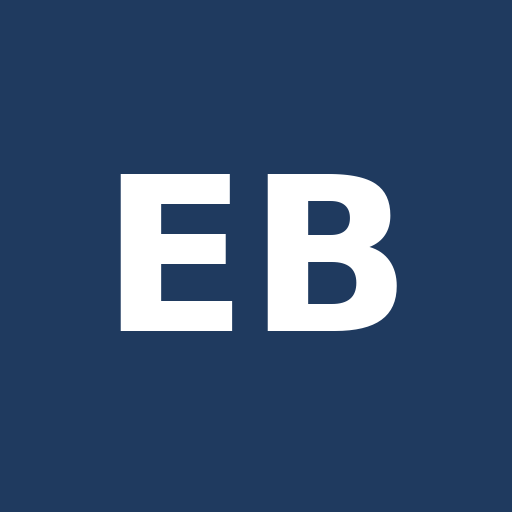
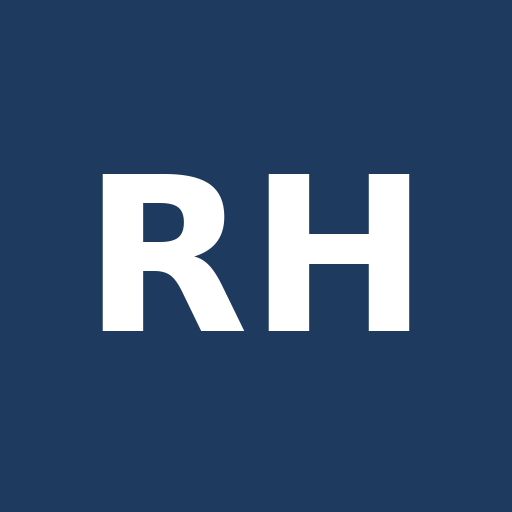
Right Hand: rename, Text+Email buttons

diff --git a/sp-r5xrl3socb/index.html b/sp-r5xrl3socb/index.html
@@ -1,22 +1,27 @@
 <!doctype html><html lang="en"><head><meta charset="utf-8">
 <meta name="viewport" content="width=device-width,initial-scale=1,viewport-fit=cover">
-<meta name="robots" content="noindex,nofollow"><title>Exec Branch</title>
+<meta name="robots" content="noindex,nofollow"><title>The Right Hand</title>
 <meta name="apple-mobile-web-app-capable" content="yes"><meta name="mobile-web-app-capable" content="yes">
-<meta name="apple-mobile-web-app-title" content="Exec Branch"><meta name="apple-mobile-web-app-status-bar-style" content="default">
+<meta name="apple-mobile-web-app-title" content="Right Hand"><meta name="apple-mobile-web-app-status-bar-style" content="default">
 <meta name="theme-color" content="#1f3a5f"><link rel="apple-touch-icon" href="apple-touch-icon.png"><link rel="icon" href="icon-192.png"><link rel="manifest" href="manifest.webmanifest">
 <style>
 body{margin:0;font-family:-apple-system,system-ui,sans-serif;background:#fff;color:#1b2a3d;padding:env(safe-area-inset-top) 16px 40px}
-header{text-align:center;padding:22px 0 8px}h1{font-family:Georgia,serif;font-weight:normal;color:#1f3a5f;margin:0;font-size:28px}
+header{text-align:center;padding:22px 0 8px}h1{font-family:Georgia,serif;font-weight:normal;color:#1f3a5f;margin:0;font-size:30px}
+.sub{color:#55657a;font-size:15px;margin-top:4px;letter-spacing:.3px}
 .top{background:#eef2f7;border-radius:12px;padding:12px 14px;font-size:15px;margin:10px 0 6px}
 h2{font-family:Georgia,serif;font-weight:normal;color:#1f3a5f;font-size:20px;border-bottom:1px solid #d5dde8;padding-bottom:6px;margin:26px 0 10px}
-.note{font-size:14px;color:#55657a;margin:-4px 0 10px}.grid{display:grid;gap:10px}
-.btn{display:block;background:#1f3a5f;color:#fff;text-decoration:none;border-radius:12px;padding:17px 16px;font-size:17px;font-weight:600;min-height:24px}
-.btn:active{background:#2c5282}textarea{width:100%;box-sizing:border-box;min-height:140px;font-size:17px;border:1px solid #b9c5d4;border-radius:12px;padding:12px;font-family:inherit}
-button{width:100%;margin-top:10px;border:0;background:#1f3a5f;color:#fff;font-size:17px;font-weight:600;border-radius:12px;padding:17px}
+.note{font-size:14px;color:#55657a;margin:-4px 0 10px}.grid{display:grid;gap:14px}
+.lbl{font-weight:600;font-size:16px;margin-bottom:6px}.pair{display:grid;grid-template-columns:1fr 1fr;gap:10px}
+.btn{display:block;text-align:center;background:#1f3a5f;color:#fff;text-decoration:none;border-radius:12px;padding:15px 8px;font-size:17px;font-weight:600;border:2px solid #1f3a5f}
+.btn.alt{background:#fff;color:#1f3a5f}.btn:active{opacity:.75}
+textarea{width:100%;box-sizing:border-box;min-height:140px;font-size:17px;border:1px solid #b9c5d4;border-radius:12px;padding:12px;font-family:inherit}
+button.btn{width:100%;font-family:inherit}
 footer{text-align:center;color:#8a98ab;font-size:13px;margin-top:32px;font-family:Georgia,serif;font-style:italic}
-</style></head><body><header><h1>Exec Branch</h1></header>
-<p class="top">Taps open an email to the assistant; hit Send and it gets to work. Replies come back by email.</p>
-<section><h2>Appointments</h2><div class="grid"><a class="btn" href="mailto:bing@mail.grokbot.com?subject=%5BExec%5D%20Schedule%20with%20Bishopric&body=Who%20to%20schedule%20with%20%28TR%20/%20youth%20interview%20/%20Bishop%29%3A%0AName%3A%0AWhat%20for%3A%0APreferred%20day/time%3A%0AAnything%20else%3A%0A">Schedule with Bishopric</a><a class="btn" href="mailto:bing@mail.grokbot.com?subject=%5BExec%5D%20Reschedule%20/%20cancel&body=Name%3A%0ACurrent%20appointment%20%28day/time%29%3A%0AReschedule%20to%20or%20cancel%3A%0ANotes%3A%0A">Reschedule / cancel</a><a class="btn" href="mailto:bing@mail.grokbot.com?subject=%5BExec%5D%20Send%20reminders&body=Which%20appointments%20%28day%29%3A%0AAnything%20to%20add%20to%20the%20reminder%3A%0A">Send reminders</a><a class="btn" href="mailto:bing@mail.grokbot.com?subject=%5BExec%5D%20What%27s%20on%20this%20Sunday%3F&body=Please%20send%20me%20this%20Sunday%27s%20appointments%20and%20schedule.%0A">What's on this Sunday?</a><a class="btn" href="mailto:bing@mail.grokbot.com?subject=%5BExec%5D%20What%27s%20on%20this%20Tuesday%3F&body=Please%20send%20me%20this%20Tuesday%27s%20appointments%20and%20schedule.%0A">What's on this Tuesday?</a></div></section><section><h2>Program & conducting</h2><div class="grid"><a class="btn" href="mailto:bing@mail.grokbot.com?subject=%5BExec%5D%20Update%20sacrament%20program&body=Date%3A%0AWhat%20to%20change%20%28speakers%2C%20prayers%2C%20hymns%2C%20other%29%3A%0ADetails%3A%0A">Update sacrament program</a><a class="btn" href="mailto:bing@mail.grokbot.com?subject=%5BExec%5D%20Get%20latest%20conducting%20sheet&body=Date%3A%0APlease%20send%20me%20the%20latest%20conducting%20sheet.%0A">Get latest conducting sheet</a><a class="btn" href="mailto:bing@mail.grokbot.com?subject=%5BExec%5D%20Add%20announcement&body=Announcement%20text%3A%0AWhich%20Sunday%28s%29%3A%0AProgram%2C%20conducting%20sheet%2C%20or%20both%3A%0A">Add announcement</a></div></section><section><h2>Agendas</h2><p class="note">Bishopric &amp; Ward Council: 2nd &amp; 4th Sundays · Youth Council: 3rd Sunday</p><div class="grid"><a class="btn" href="mailto:bing@mail.grokbot.com?subject=%5BExec%5D%20Ward%20Council%20agenda&body=Date%3A%0AItems%20to%20add%20/%20change%3A%0ASend%20me%20the%20current%20draft%3F%20%28yes/no%29%3A%0A">Ward Council agenda</a><a class="btn" href="mailto:bing@mail.grokbot.com?subject=%5BExec%5D%20Youth%20Council%20agenda&body=Date%3A%0AItems%20to%20add%20/%20change%3A%0ASend%20me%20the%20current%20draft%3F%20%28yes/no%29%3A%0A">Youth Council agenda</a><a class="btn" href="mailto:bing@mail.grokbot.com?subject=%5BExec%5D%20Bishopric%20agenda&body=Date%3A%0AItems%20to%20add%20/%20change%3A%0ASend%20me%20the%20current%20draft%3F%20%28yes/no%29%3A%0A">Bishopric agenda</a></div></section><section><h2>Callings &amp; records</h2><div class="grid"><a class="btn" href="mailto:bing@mail.grokbot.com?subject=%5BExec%5D%20Sustaining%20/%20release&body=Sustain%20or%20release%3A%0AName%3A%0ACalling%3A%0AWhich%20Sunday%3A%0A">Sustaining / release</a><a class="btn" href="mailto:bing@mail.grokbot.com?subject=%5BExec%5D%20Set%20apart&body=Name%3A%0ACalling%3A%0AWho%20will%20set%20apart%20/%20when%3A%0A">Set apart</a><a class="btn" href="mailto:bing@mail.grokbot.com?subject=%5BExec%5D%20Record%20update&body=Name%3A%0AWhat%20changed%20%28move%20in/out%2C%20address%2C%20other%29%3A%0ADetails%3A%0A">Record update</a></div></section><section><h2>Missionaries</h2><div class="grid"><a class="btn" href="mailto:bing@mail.grokbot.com?subject=%5BExec%5D%20Missionary%20update%20/%20email&body=Missionary%3A%0AUpdate%20or%20message%3A%0ASend%20to%20whom%3A%0A">Missionary update / email</a></div></section><section><h2>Texts</h2><p class="note">You'll get a draft back to approve before anything is sent.</p><div class="grid"><a class="btn" href="mailto:bing@mail.grokbot.com?subject=%5BExec%5D%20Text%20a%20ward%20member&body=Name%3A%0AMessage%3A%0ASend%20now%20or%20at%20a%20time%3A%0A">Text a ward member</a></div></section>
+</style></head><body><header><h1>The Right Hand</h1><div class="sub">Assistant Ward Executive Secretary</div></header>
+<p class="top">Tap Text or Email, hit Send, and the assistant gets to work. Replies come back the same way.</p>
+<section><h2>Appointments</h2><div class="grid"><div class="act"><div class="lbl">Schedule with Bishopric</div><div class="pair"><a class="btn" href="sms:+18019921414&body=%5BExec%5D%20Schedule%20with%20Bishopric%3A%20Who%20to%20schedule%20with%20%28TR%20/%20youth%20interview%20/%20Bishop%29%3A%0AName%3A%0AWhat%20for%3A%0APreferred%20day/time%3A%0AAnything%20else%3A%0A">Text</a><a class="btn alt" href="mailto:bing@mail.grokbot.com?subject=%5BExec%5D%20Schedule%20with%20Bishopric&body=Who%20to%20schedule%20with%20%28TR%20/%20youth%20interview%20/%20Bishop%29%3A%0AName%3A%0AWhat%20for%3A%0APreferred%20day/time%3A%0AAnything%20else%3A%0A">Email</a></div></div><div class="act"><div class="lbl">Reschedule / cancel</div><div class="pair"><a class="btn" href="sms:+18019921414&body=%5BExec%5D%20Reschedule%20/%20cancel%3A%20Name%3A%0ACurrent%20appointment%20%28day/time%29%3A%0AReschedule%20to%20or%20cancel%3A%0ANotes%3A%0A">Text</a><a class="btn alt" href="mailto:bing@mail.grokbot.com?subject=%5BExec%5D%20Reschedule%20/%20cancel&body=Name%3A%0ACurrent%20appointment%20%28day/time%29%3A%0AReschedule%20to%20or%20cancel%3A%0ANotes%3A%0A">Email</a></div></div><div class="act"><div class="lbl">Send reminders</div><div class="pair"><a class="btn" href="sms:+18019921414&body=%5BExec%5D%20Send%20reminders%3A%20Which%20appointments%20%28day%29%3A%0AAnything%20to%20add%20to%20the%20reminder%3A%0A">Text</a><a class="btn alt" href="mailto:bing@mail.grokbot.com?subject=%5BExec%5D%20Send%20reminders&body=Which%20appointments%20%28day%29%3A%0AAnything%20to%20add%20to%20the%20reminder%3A%0A">Email</a></div></div><div class="act"><div class="lbl">What's on this Sunday?</div><div class="pair"><a class="btn" href="sms:+18019921414&body=%5BExec%5D%20What%27s%20on%20this%20Sunday%3F%3A%20Please%20send%20me%20this%20Sunday%27s%20appointments%20and%20schedule.%0A">Text</a><a class="btn alt" href="mailto:bing@mail.grokbot.com?subject=%5BExec%5D%20What%27s%20on%20this%20Sunday%3F&body=Please%20send%20me%20this%20Sunday%27s%20appointments%20and%20schedule.%0A">Email</a></div></div><div class="act"><div class="lbl">What's on this Tuesday?</div><div class="pair"><a class="btn" href="sms:+18019921414&body=%5BExec%5D%20What%27s%20on%20this%20Tuesday%3F%3A%20Please%20send%20me%20this%20Tuesday%27s%20appointments%20and%20schedule.%0A">Text</a><a class="btn alt" href="mailto:bing@mail.grokbot.com?subject=%5BExec%5D%20What%27s%20on%20this%20Tuesday%3F&body=Please%20send%20me%20this%20Tuesday%27s%20appointments%20and%20schedule.%0A">Email</a></div></div></div></section><section><h2>Program & conducting</h2><div class="grid"><div class="act"><div class="lbl">Update sacrament program</div><div class="pair"><a class="btn" href="sms:+18019921414&body=%5BExec%5D%20Update%20sacrament%20program%3A%20Date%3A%0AWhat%20to%20change%20%28speakers%2C%20prayers%2C%20hymns%2C%20other%29%3A%0ADetails%3A%0A">Text</a><a class="btn alt" href="mailto:bing@mail.grokbot.com?subject=%5BExec%5D%20Update%20sacrament%20program&body=Date%3A%0AWhat%20to%20change%20%28speakers%2C%20prayers%2C%20hymns%2C%20other%29%3A%0ADetails%3A%0A">Email</a></div></div><div class="act"><div class="lbl">Get latest conducting sheet</div><div class="pair"><a class="btn" href="sms:+18019921414&body=%5BExec%5D%20Get%20latest%20conducting%20sheet%3A%20Date%3A%0APlease%20send%20me%20the%20latest%20conducting%20sheet.%0A">Text</a><a class="btn alt" href="mailto:bing@mail.grokbot.com?subject=%5BExec%5D%20Get%20latest%20conducting%20sheet&body=Date%3A%0APlease%20send%20me%20the%20latest%20conducting%20sheet.%0A">Email</a></div></div><div class="act"><div class="lbl">Add announcement</div><div class="pair"><a class="btn" href="sms:+18019921414&body=%5BExec%5D%20Add%20announcement%3A%20Announcement%20text%3A%0AWhich%20Sunday%28s%29%3A%0AProgram%2C%20conducting%20sheet%2C%20or%20both%3A%0A">Text</a><a class="btn alt" href="mailto:bing@mail.grokbot.com?subject=%5BExec%5D%20Add%20announcement&body=Announcement%20text%3A%0AWhich%20Sunday%28s%29%3A%0AProgram%2C%20conducting%20sheet%2C%20or%20both%3A%0A">Email</a></div></div></div></section><section><h2>Agendas</h2><p class="note">Bishopric &amp; Ward Council: 2nd &amp; 4th Sundays · Youth Council: 3rd Sunday</p><div class="grid"><div class="act"><div class="lbl">Ward Council agenda</div><div class="pair"><a class="btn" href="sms:+18019921414&body=%5BExec%5D%20Ward%20Council%20agenda%3A%20Date%3A%0AItems%20to%20add%20/%20change%3A%0ASend%20me%20the%20current%20draft%3F%20%28yes/no%29%3A%0A">Text</a><a class="btn alt" href="mailto:bing@mail.grokbot.com?subject=%5BExec%5D%20Ward%20Council%20agenda&body=Date%3A%0AItems%20to%20add%20/%20change%3A%0ASend%20me%20the%20current%20draft%3F%20%28yes/no%29%3A%0A">Email</a></div></div><div class="act"><div class="lbl">Youth Council agenda</div><div class="pair"><a class="btn" href="sms:+18019921414&body=%5BExec%5D%20Youth%20Council%20agenda%3A%20Date%3A%0AItems%20to%20add%20/%20change%3A%0ASend%20me%20the%20current%20draft%3F%20%28yes/no%29%3A%0A">Text</a><a class="btn alt" href="mailto:bing@mail.grokbot.com?subject=%5BExec%5D%20Youth%20Council%20agenda&body=Date%3A%0AItems%20to%20add%20/%20change%3A%0ASend%20me%20the%20current%20draft%3F%20%28yes/no%29%3A%0A">Email</a></div></div><div class="act"><div class="lbl">Bishopric agenda</div><div class="pair"><a class="btn" href="sms:+18019921414&body=%5BExec%5D%20Bishopric%20agenda%3A%20Date%3A%0AItems%20to%20add%20/%20change%3A%0ASend%20me%20the%20current%20draft%3F%20%28yes/no%29%3A%0A">Text</a><a class="btn alt" href="mailto:bing@mail.grokbot.com?subject=%5BExec%5D%20Bishopric%20agenda&body=Date%3A%0AItems%20to%20add%20/%20change%3A%0ASend%20me%20the%20current%20draft%3F%20%28yes/no%29%3A%0A">Email</a></div></div></div></section><section><h2>Callings &amp; records</h2><div class="grid"><div class="act"><div class="lbl">Sustaining / release</div><div class="pair"><a class="btn" href="sms:+18019921414&body=%5BExec%5D%20Sustaining%20/%20release%3A%20Sustain%20or%20release%3A%0AName%3A%0ACalling%3A%0AWhich%20Sunday%3A%0A">Text</a><a class="btn alt" href="mailto:bing@mail.grokbot.com?subject=%5BExec%5D%20Sustaining%20/%20release&body=Sustain%20or%20release%3A%0AName%3A%0ACalling%3A%0AWhich%20Sunday%3A%0A">Email</a></div></div><div class="act"><div class="lbl">Set apart</div><div class="pair"><a class="btn" href="sms:+18019921414&body=%5BExec%5D%20Set%20apart%3A%20Name%3A%0ACalling%3A%0AWho%20will%20set%20apart%20/%20when%3A%0A">Text</a><a class="btn alt" href="mailto:bing@mail.grokbot.com?subject=%5BExec%5D%20Set%20apart&body=Name%3A%0ACalling%3A%0AWho%20will%20set%20apart%20/%20when%3A%0A">Email</a></div></div><div class="act"><div class="lbl">Record update</div><div class="pair"><a class="btn" href="sms:+18019921414&body=%5BExec%5D%20Record%20update%3A%20Name%3A%0AWhat%20changed%20%28move%20in/out%2C%20address%2C%20other%29%3A%0ADetails%3A%0A">Text</a><a class="btn alt" href="mailto:bing@mail.grokbot.com?subject=%5BExec%5D%20Record%20update&body=Name%3A%0AWhat%20changed%20%28move%20in/out%2C%20address%2C%20other%29%3A%0ADetails%3A%0A">Email</a></div></div></div></section><section><h2>Missionaries</h2><div class="grid"><div class="act"><div class="lbl">Missionary update / email</div><div class="pair"><a class="btn" href="sms:+18019921414&body=%5BExec%5D%20Missionary%20update%20/%20email%3A%20Missionary%3A%0AUpdate%20or%20message%3A%0ASend%20to%20whom%3A%0A">Text</a><a class="btn alt" href="mailto:bing@mail.grokbot.com?subject=%5BExec%5D%20Missionary%20update%20/%20email&body=Missionary%3A%0AUpdate%20or%20message%3A%0ASend%20to%20whom%3A%0A">Email</a></div></div></div></section><section><h2>Texts</h2><p class="note">You'll get a draft back to approve before anything is sent.</p><div class="grid"><div class="act"><div class="lbl">Text a ward member</div><div class="pair"><a class="btn" href="sms:+18019921414&body=%5BExec%5D%20Text%20a%20ward%20member%3A%20Name%3A%0AMessage%3A%0ASend%20now%20or%20at%20a%20time%3A%0A">Text</a><a class="btn alt" href="mailto:bing@mail.grokbot.com?subject=%5BExec%5D%20Text%20a%20ward%20member&body=Name%3A%0AMessage%3A%0ASend%20now%20or%20at%20a%20time%3A%0A">Email</a></div></div></div></section>
 <section><h2>Anything else</h2><textarea id="req" placeholder="Type what you need…"></textarea>
-<button onclick="location.href='mailto:bing@mail.grokbot.com?subject='+encodeURIComponent('[Exec] Request')+'&body='+encodeURIComponent(document.getElementById('req').value)">Send to assistant</button></section>
-<footer>“By love serve one another.” — Galatians 5:13</footer></body></html>
+<div class="pair" style="margin-top:10px"><button class="btn" onclick="go('t')">Text</button><button class="btn alt" onclick="go('m')">Email</button></div></section>
+<footer>“By love serve one another.” — Galatians 5:13</footer>
+<script>function go(k){var v=document.getElementById('req').value;location.href=k=='t'?'sms:+18019921414&body='+encodeURIComponent('[Exec] Request: '+v):'mailto:bing@mail.grokbot.com?subject='+encodeURIComponent('[Exec] Request')+'&body='+encodeURIComponent(v);}</script>
+</body></html>
